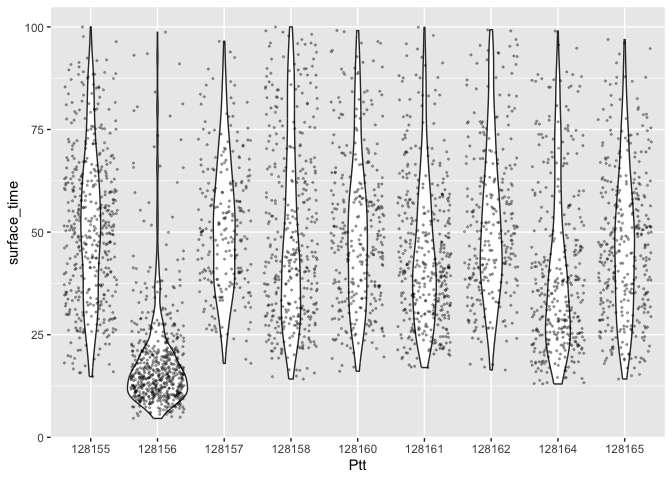
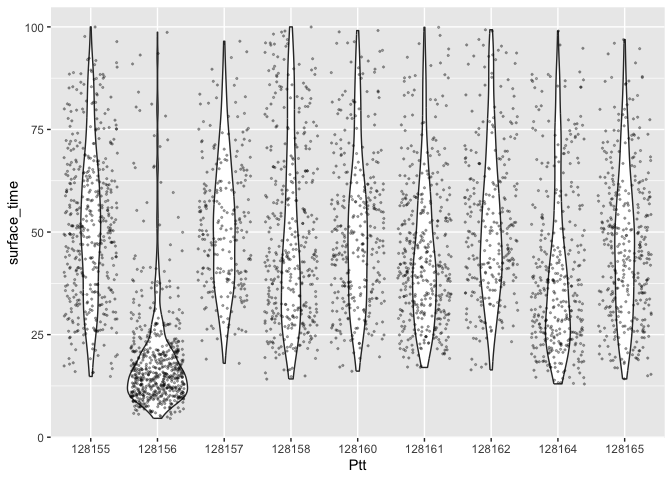
Fixed milestone 1

diff --git a/milestone-1/mini-project-1.md b/milestone-1/mini-project-1.md
@@ -22,14 +22,20 @@ library(tidyverse)
 
     ## ── Attaching core tidyverse packages ──────────────────────── tidyverse 2.0.0 ──
     ## ✔ dplyr     1.1.4     ✔ readr     2.1.5
-    ## ✔ forcats   1.0.0     ✔ stringr   1.5.1
-    ## ✔ ggplot2   3.5.2     ✔ tibble    3.3.0
+    ## ✔ forcats   1.0.0     ✔ stringr   1.5.2
+    ## ✔ ggplot2   4.0.0     ✔ tibble    3.3.0
     ## ✔ lubridate 1.9.4     ✔ tidyr     1.3.1
     ## ✔ purrr     1.0.4     
     ## ── Conflicts ────────────────────────────────────────── tidyverse_conflicts() ──
     ## ✖ dplyr::filter() masks stats::filter()
     ## ✖ dplyr::lag()    masks stats::lag()
     ## ℹ Use the conflicted package (<http://conflicted.r-lib.org/>) to force all conflicts to become errors
+
+``` r
+library(here)
+```
+
+    ## here() starts at /Users/jackfarley/Documents/R and Python Projects/STAT 545/mini-project
 
 3.  Make a repository in the <https://github.com/stat545ubc-2024>
     Organization. You can do this by following the steps found on canvas
@@ -176,7 +182,7 @@ comments outside of the code chunk?
 
 ``` r
 ### Data set 1 ###
-TAD_data_combined <- tibble(read.csv("TAD_data_combined.csv")) %>% group_by(Ptt)
+TAD_data_combined <- tibble(read.csv(here("data", "TAD_data_combined.csv"))) %>% group_by(Ptt)
 TAD_num_rows <- nrow(TAD_data_combined)
 TAD_num_belugas <- n_groups(TAD_data_combined)
 TAD_num_cols <- ncol(TAD_data_combined)
@@ -483,7 +489,7 @@ top_bin_histogram_split <- TAD_data_combined %>% ggplot(aes(x=X0.1.m)) +
 print(top_bin_histogram_split)
 ```
 
-    ## `stat_bin()` using `bins = 30`. Pick better value with `binwidth`.
+    ## `stat_bin()` using `bins = 30`. Pick better value `binwidth`.
 
 ![](mini-project-1_files/figure-gfm/unnamed-chunk-8-1.png)<!-- -->
 
@@ -494,7 +500,7 @@ top_bin_histogram <- TAD_data %>% ggplot(aes(x=X0.1.m)) +
 print(top_bin_histogram)
 ```
 
-    ## `stat_bin()` using `bins = 30`. Pick better value with `binwidth`.
+    ## `stat_bin()` using `bins = 30`. Pick better value `binwidth`.
 
 ![](mini-project-1_files/figure-gfm/unnamed-chunk-8-2.png)<!-- -->
 
